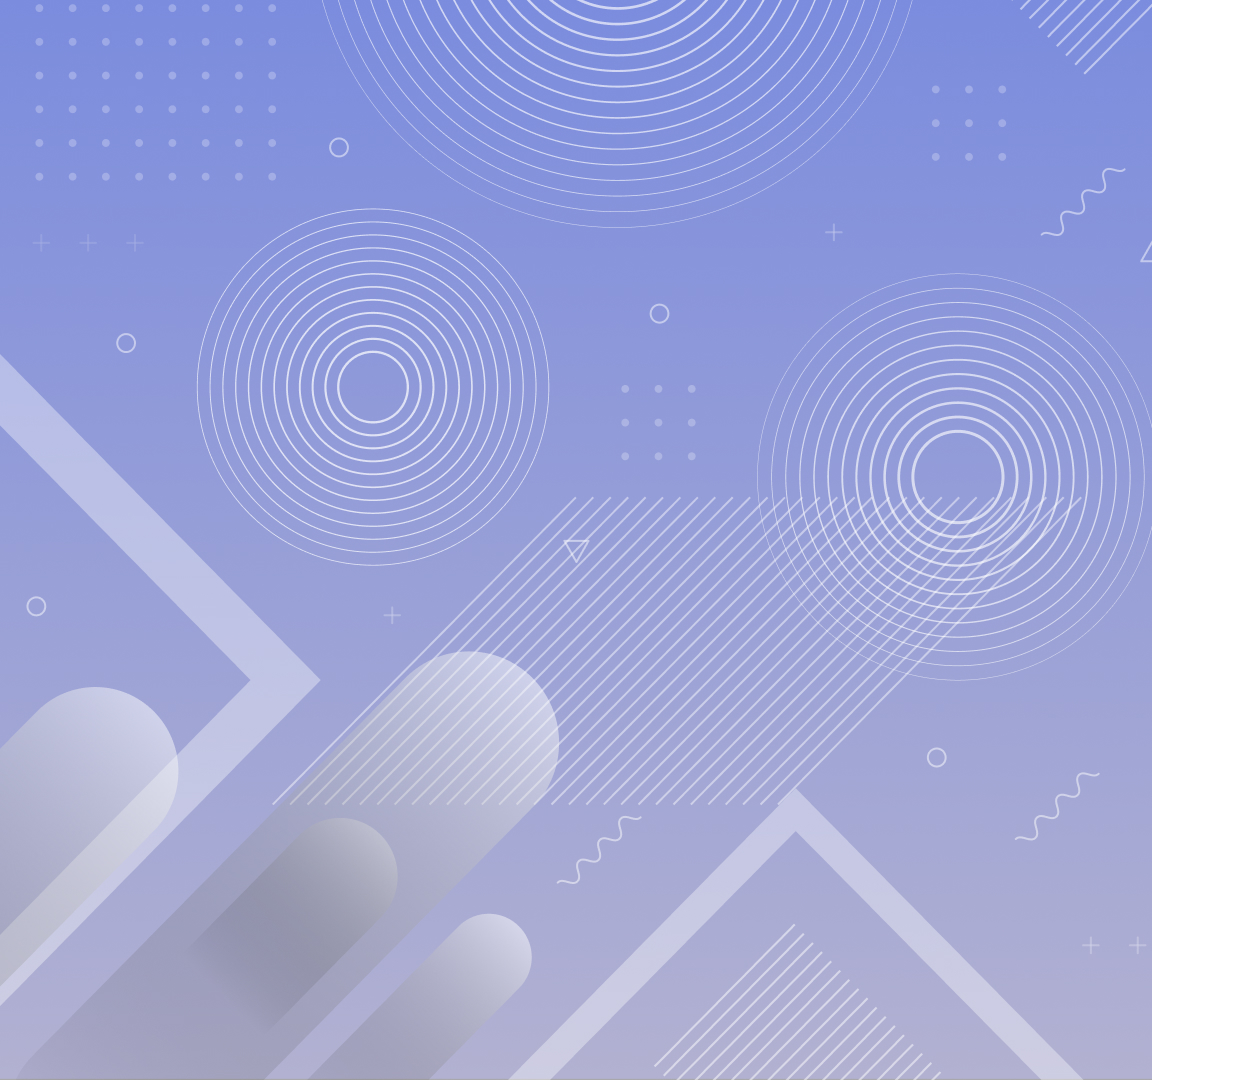
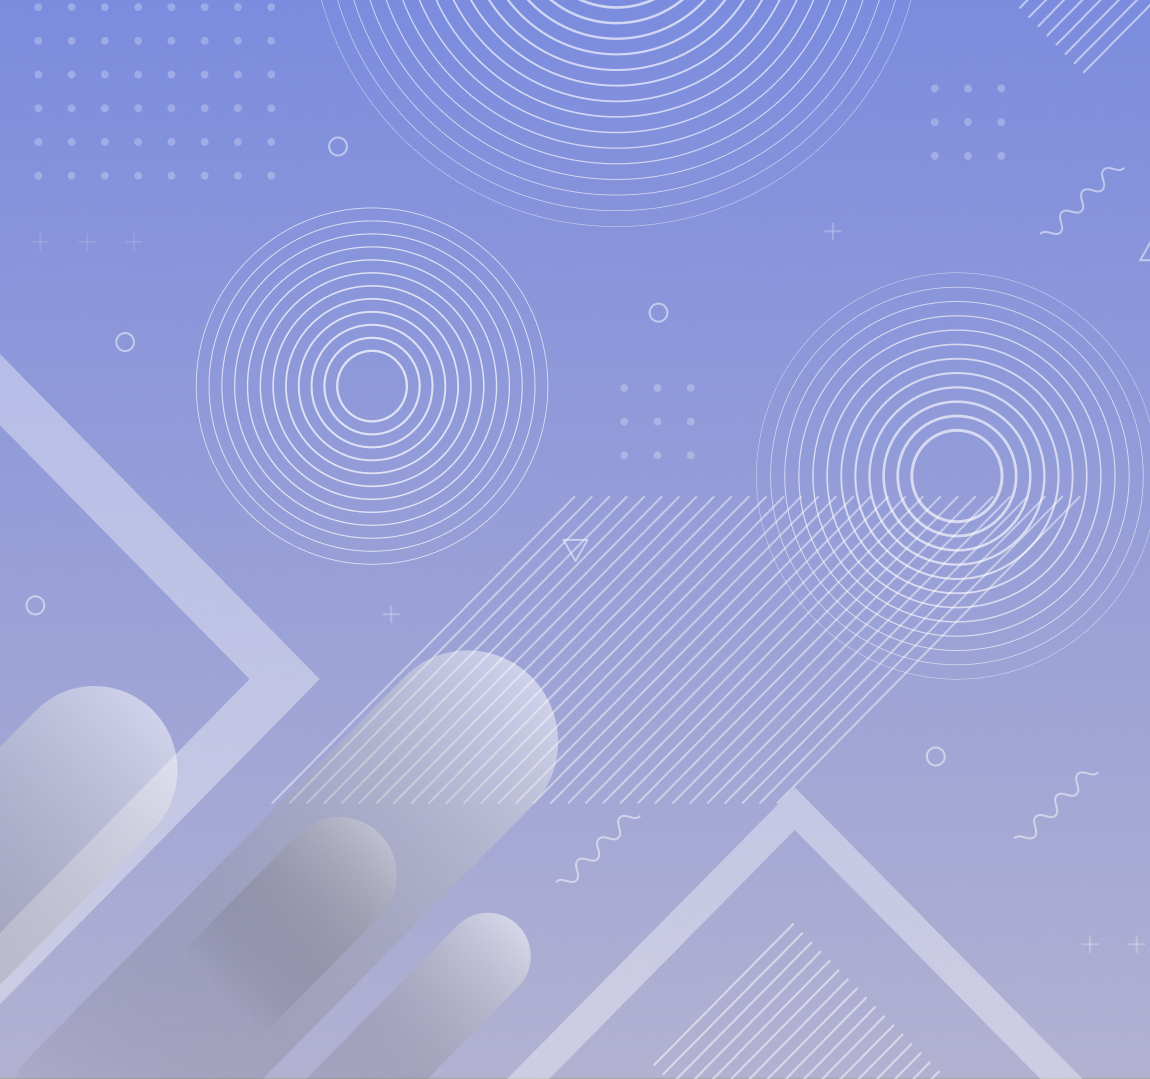
cropping backkground image

diff --git a/src/pages/NewGarden.jsx b/src/pages/NewGarden.jsx
@@ -6,15 +6,12 @@ import Alert from "../components/Alert/index";
 const NewGarden = () => {
   return (
     <section className="grid grid-cols-10">
-      <div
-        className={`hidden md:flex md:col-span-5 lg:col-span-6 items-center justify-center h-full bg-abstractform`}
-      >
+      <div className="hidden md:flex md:col-span-5 lg:col-span-6 items-center justify-center h-full bg-abstractform">
         <MyDropzone />
       </div>
 
-      <div className="grid grid-cols-1 col-span-10 md:col-span-5 lg:col-span-4 px-4 place-content-center min-h-screen overflow-y-auto relative">
+      <div className="col-span-10 md:col-span-5 lg:col-span-4 min-h-screen overflow-y-auto relative px-4">
         <GardenForm />
-       
       </div>
     </section>
   );
